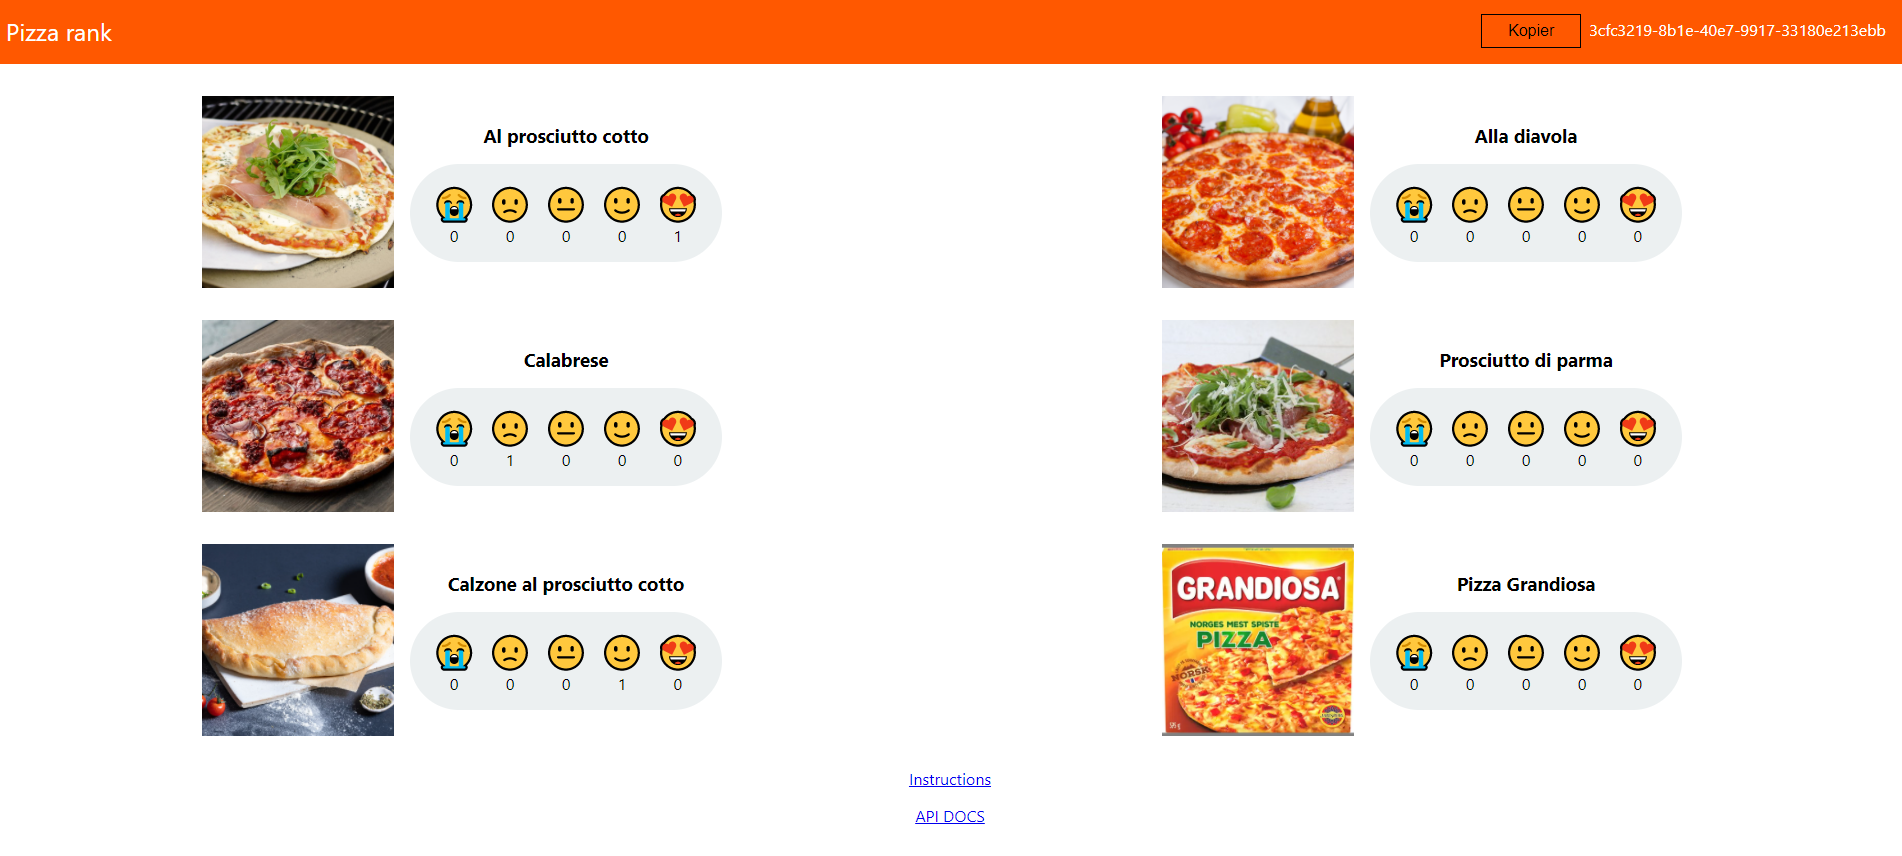
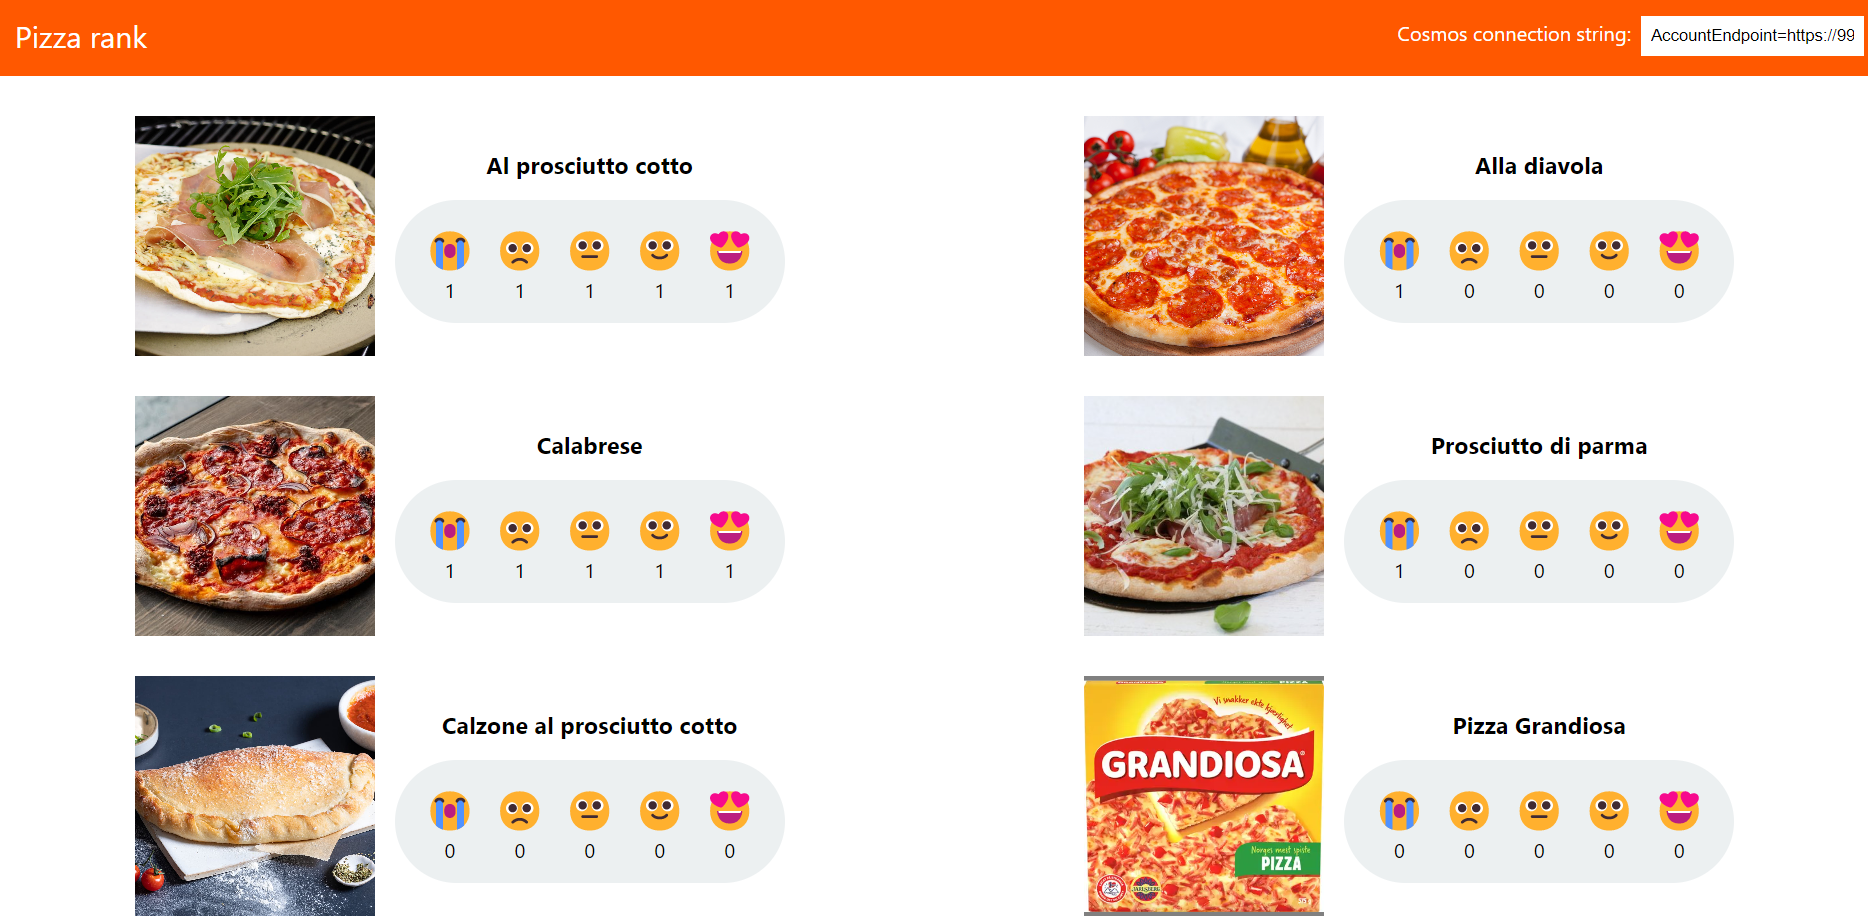
Update overview image

Changed region(s): [[0.0, 0.0, 1.0, 1.0], [0.7452, 0.6682, 0.8383, 0.6986], [0.4657, 0.9112, 0.5278, 0.972]]

diff --git a/task-cosmostrigger.md b/task-cosmostrigger.md
@@ -97,21 +97,17 @@ You will now be prompted for configurations for the project and login to Azure. 
 
 - **Template for function**: Azure Cosmos DB trigger
 
-- **Function name**: CosmosTriggerFunction
+- **Function name**: RatingTrigger
 
-- **Namespace**: LearningFunctions.CosmosTriggerFunction
-
-- **Storage settings**: AzureWebJobsStorage
+- **Namespace**: LearningFunctions.RatingTrigger
 
 - **Database name**: storage
 
-- **Collection name**: ratings\_[INSERT GUID] e.g. `ratings_88a3175c-310a-45b4-920d-c0576f617e5d`
-
-- **Storage account prompt**: Use local emulator
+- **Collection name**: ratings
 
   ![Prompt](images/storage-prompt.png)
 
-Your function is now being set up and a file `CosmosTriggerFunction.cs` will be added to your folder.
+Your function has now been setup. Your local.settings.json should be updated with your cosmos connection string and a file `RatingTrigger.cs` added to your project folder.
 
 ### Complete setup of function
 
